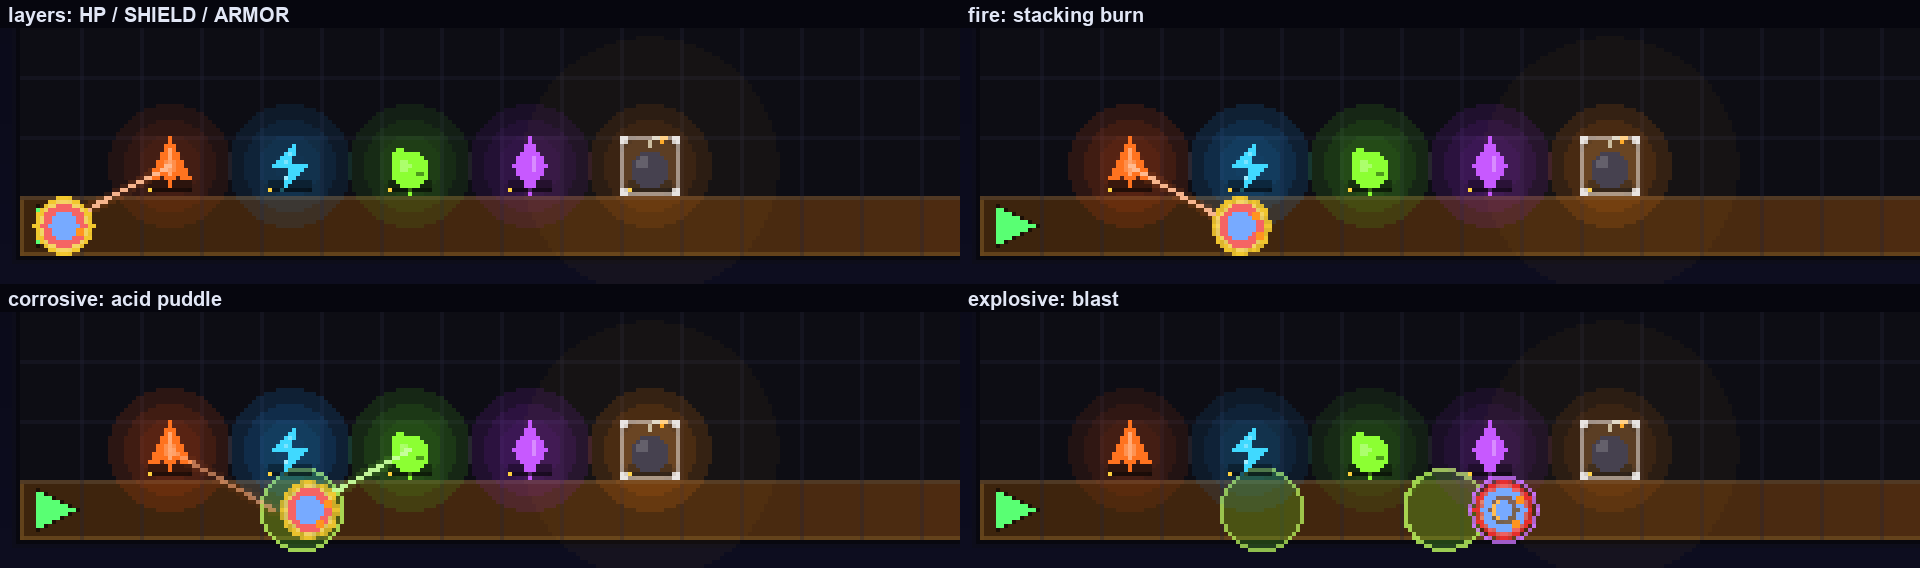
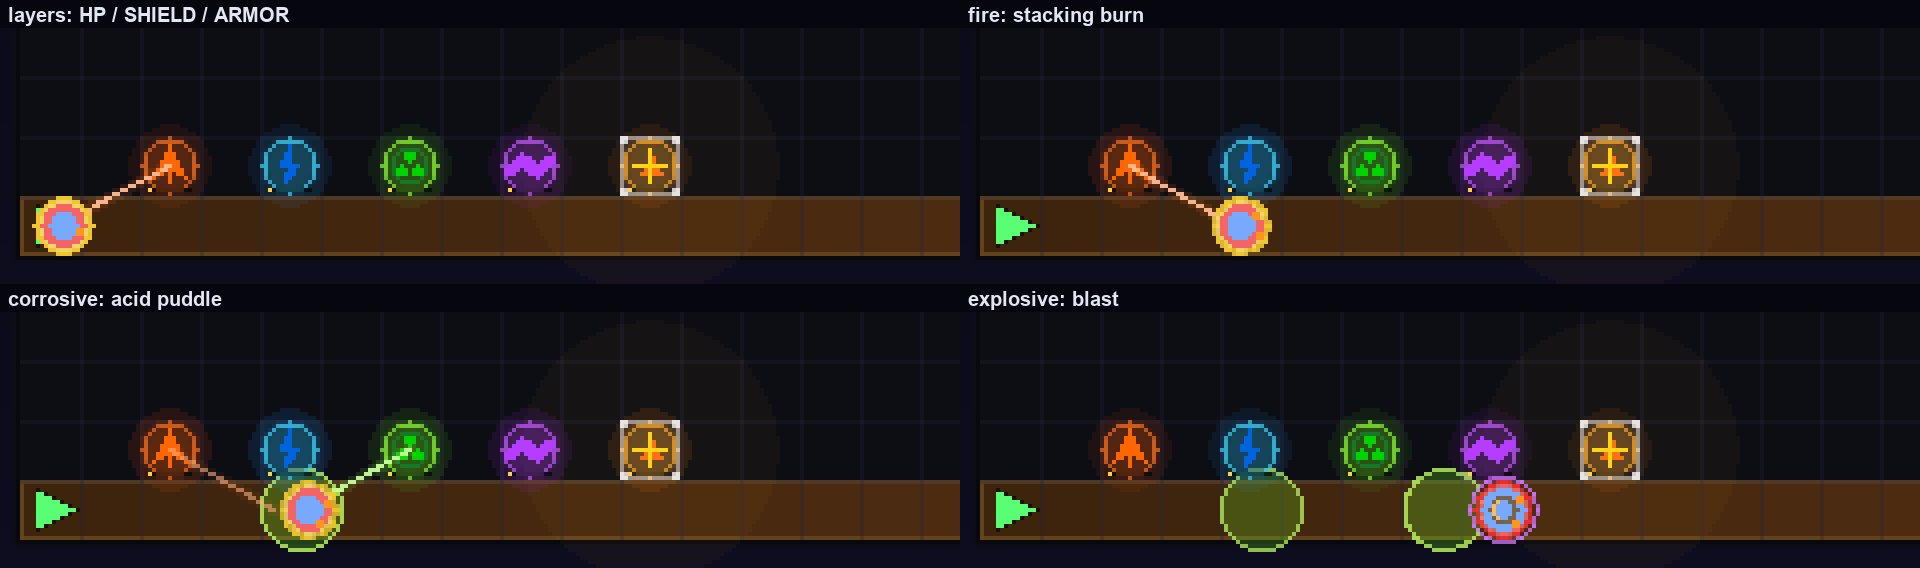
readme: v0.4 menu and emblem screenshots

diff --git a/README.md b/README.md
@@ -1,7 +1,8 @@
 # Attempt 2: Elemental Defense for the 3DS
 
 A tower defense game I originally wrote in LÖVE2D, rebuilt from scratch in C so it actually runs
-properly on a Nintendo 3DS — now with a Borderlands-style layered damage model.
+properly on a Nintendo 3DS — with a Borderlands-style layered damage model and a BL2-inspired
+title screen full of element emblems.
 
 The first attempt ran the LÖVE version through LovePotion. It booted! And then crawled at a few
 frames per second with half the playfield off-screen and touch controls fighting LÖVE's mouse
@@ -49,14 +50,15 @@ you can build as long as you like before calling the next one in.
 
 ## Screenshots
 
-Straight out of Azahar, top screen above and touchscreen below:
+Rendered by the game's own frame code (top screen above, touchscreen below) — the PC preview
+harness runs the same `game.h`/`gfx.h` rendering the 3DS backend uses, so this is exactly what the
+console draws:
 
-| Menu | Build phase: all six damage types | Wave: layered creeps |
+| Menu: five element emblems | Build phase: six damage types | Wave: layered creeps |
 |---|---|---|
 | ![menu](docs/screenshots/menu.png) | ![build phase](docs/screenshots/build.png) | ![combat](docs/screenshots/wave.png) |
 
-Close-ups of the damage model, rendered by the game's own frame code in the PC preview harness
-(the menu/build/wave shots above are real Azahar captures):
+Close-ups of the damage model (layered rings, burn stacks, acid puddle, explosive blast):
 
 ![effects](docs/screenshots/effects.png)
 
@@ -88,7 +90,8 @@ Playing under an emulator (I use Azahar)? I map **WASD** to the d-pad, **U/H/J/K
 ## Status
 
 Playable end to end: maze building on the road, 25 waves, six damage types against layered enemies,
-status effects, upgrades, lives, game over, victory. It boots at a stable 60 fps in the Azahar
+status effects, upgrades, lives, game over, victory. The v0.4 pass redesigned the title screen and
+gave the palette/board Borderlands-style element emblems drawn as original pixel art. It boots at a stable 60 fps in the Azahar
 emulator, which is where all my testing so far happened — real-hardware input and GPU output are the
 next thing I'll verify on the actual console. What's still missing:
 
